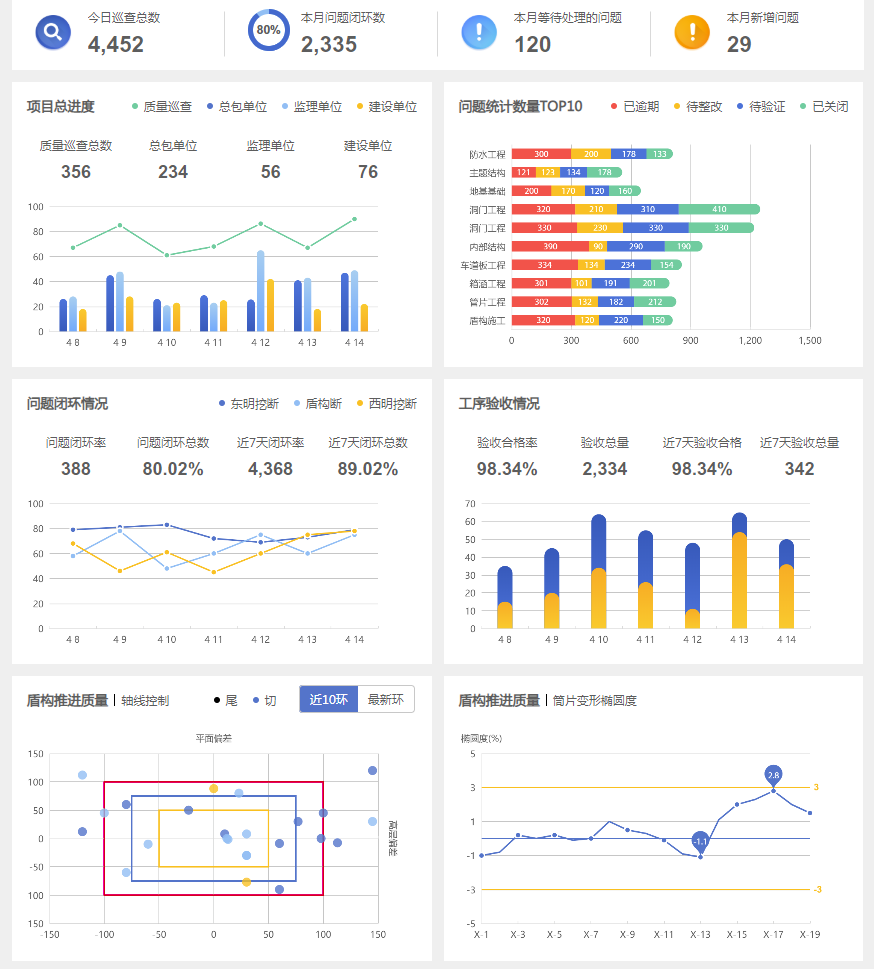
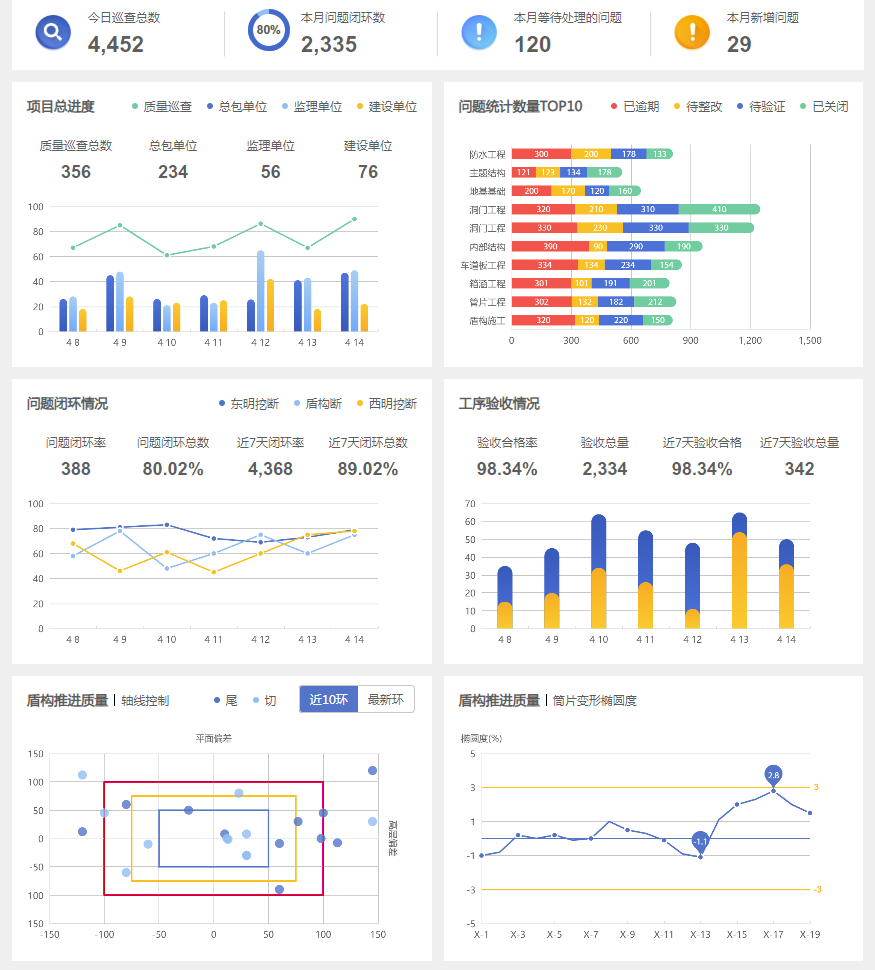
Update: 完善

diff --git a/src/css/style.css b/src/css/style.css
@@ -241,12 +241,12 @@ canvas {
 .container .view li.section.s6 .info {
   position: relative;
 }
-.container .view li.section.s5 .info > span:nth-child(3)::before,
-.container .view li.section.s6 .info > span:nth-child(3)::before {
-  background-color: #95c3f5;
-}
 .container .view li.section.s5 .info > span:nth-child(4)::before,
 .container .view li.section.s6 .info > span:nth-child(4)::before {
+  background-color: #95c3f5;
+}
+.container .view li.section.s5 .info > span:nth-child(5)::before,
+.container .view li.section.s6 .info > span:nth-child(5)::before {
   background-color: #577bcf;
 }
 .container .view li.section.s5 .info .txt,

diff --git a/src/css/style.less b/src/css/style.less
@@ -209,10 +209,10 @@ canvas {
                 position: relative;
 
                 > span {
-                    &:nth-child(3)::before {
+                    &:nth-child(4)::before {
                         background-color: @c3;
                     }
-                    &:nth-child(4)::before {
+                    &:nth-child(5)::before {
                         background-color: @c2;
                     }
                 }

diff --git a/src/js/Shield/colors.js b/src/js/Shield/colors.js
@@ -2,7 +2,7 @@ define( [], function () {
     'use strict';
 
     return {
-        area: [ '#e60012', '#577bcf', '#ffc924' ],
+        area: [ '#e60012', '#ffc924', '#577bcf' ],
         bg: [ '#577bcf', '#95c3f5', '#ffc929' ]
     };
 } );

diff --git a/src/js/Shield/mork.js b/src/js/Shield/mork.js
@@ -29,11 +29,6 @@ define( [], function () {
             [ 145, 30 ],
             [ -60, -10 ],
             [ -80, -60 ]
-        ],
-
-        [
-            [ 0.0, 88.04 ],
-            [ 30, -77 ]
         ]
     ];
 } );

diff --git a/README.md b/README.md
@@ -20,6 +20,8 @@
 - [x] less
 - [ ] vue
 
+
+
 ## 问题
 
 1. `icon` 图片裁剪有问题
